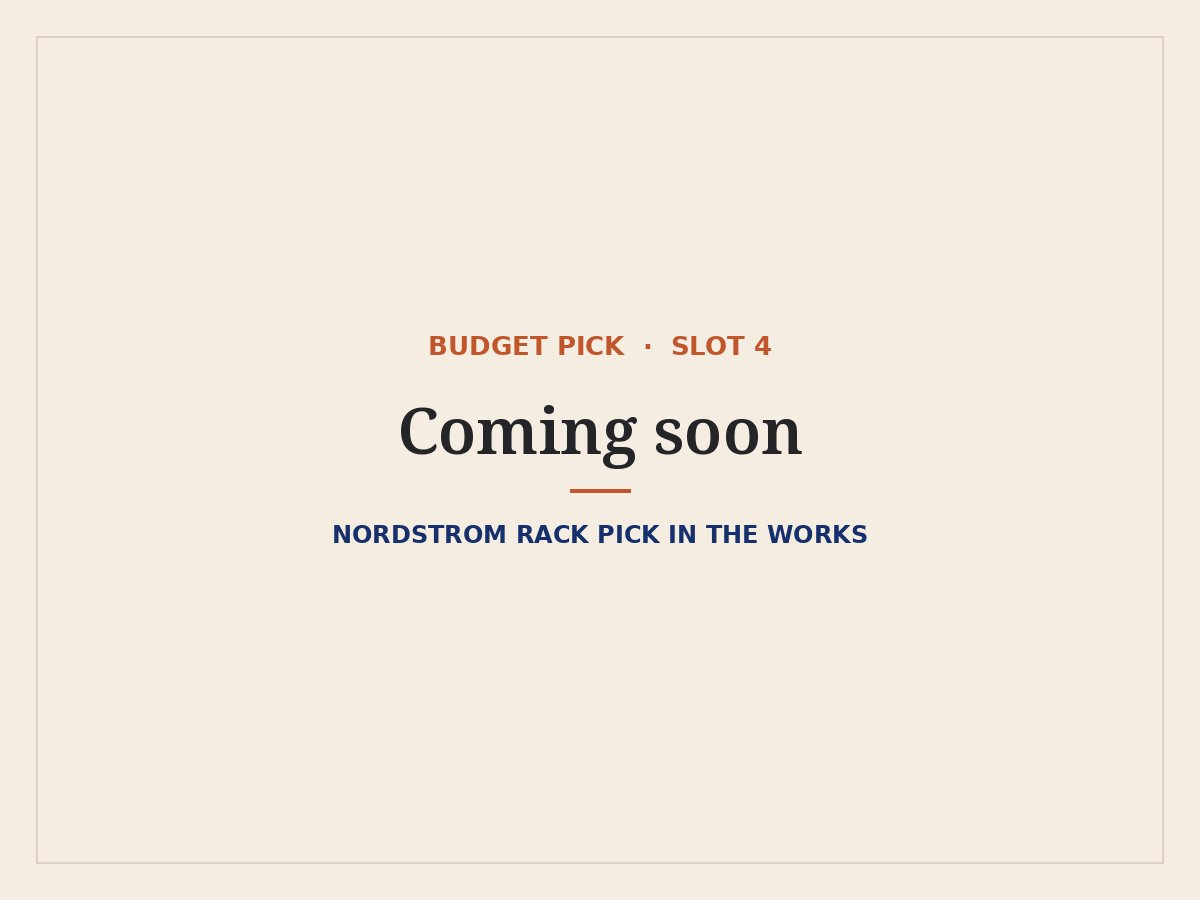
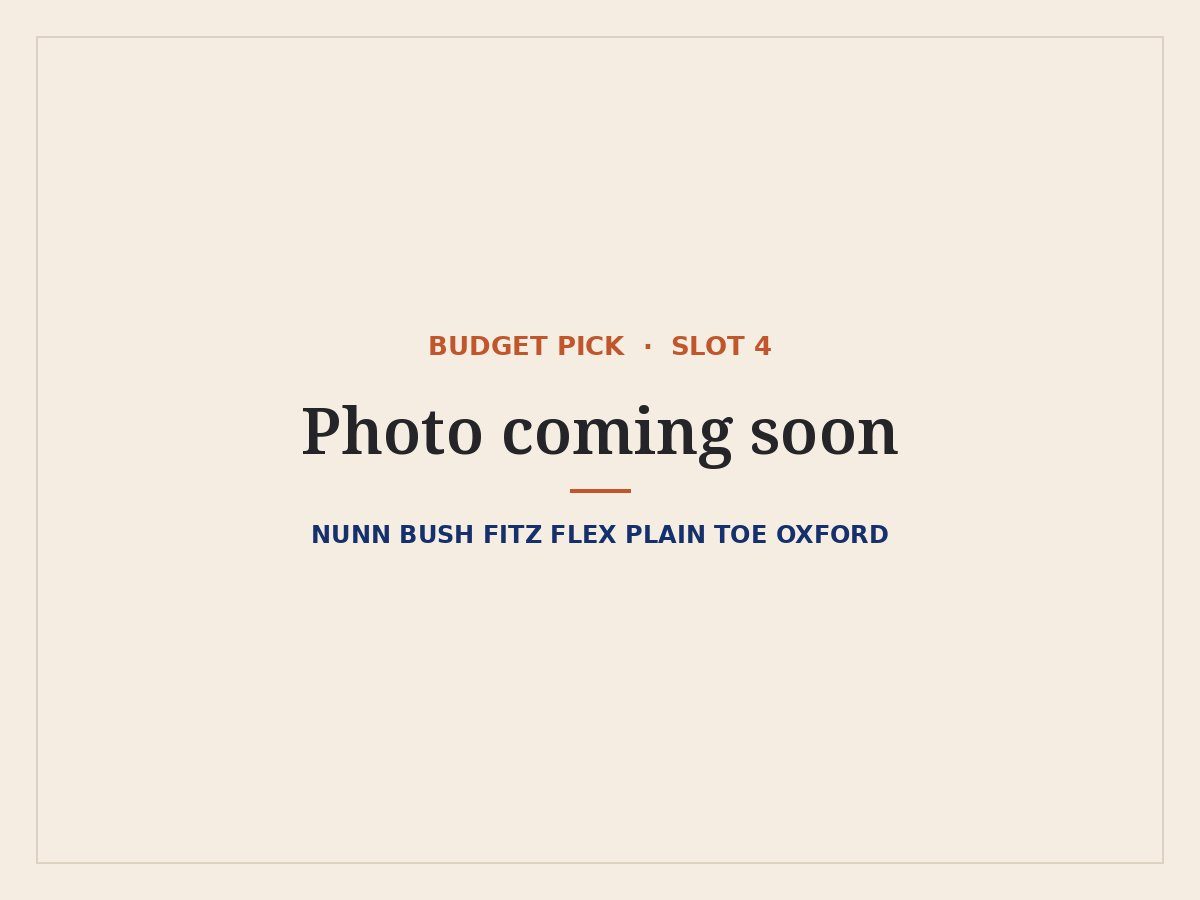
Budget Rotation: fill Nordstrom Rack picks for slots 2-6, add slot 1 outlet photo

Changed region(s): [[0.2467, 0.4356, 0.7708, 0.5289], [0.2467, 0.56, 0.74, 0.6222]]

diff --git a/budget.html b/budget.html
@@ -42,68 +42,76 @@
       <p>Tap a slot for its rules and my main pick.</p>
     </div>
     <div class="grid">
-      <a class="tile" href="slots/everyday-dad-shoe.html">
-        <div class="tile-img"><img src="assets/budget/budget-1.jpg" alt="Nike Air Monarch IV, photo coming soon" width="1200" height="900" loading="lazy"></div>
+      <article class="tile budget-tile" id="slot-1">
+        <a class="tile-img" href="slots/everyday-dad-shoe.html" tabindex="-1" aria-hidden="true"><img src="assets/budget/budget-1.jpg" alt="Nike Air Monarch IV on a Nike outlet shelf with its price tag" width="1200" height="900" loading="lazy"></a>
         <div class="tile-body">
           <span class="tile-num">Slot 1</span>
-          <h3 class="tile-name">The Everyday Dad Shoe</h3>
-          <p class="tile-pick">Current budget pick<strong>Nike Air Monarch IV</strong></p>
-          <p class="budget-price">About $75 at the Nike outlet</p>
-          <span class="tile-more">See the slot <span>&rarr;</span></span>
+          <h3 class="tile-name"><a href="slots/everyday-dad-shoe.html">The Everyday Dad Shoe</a></h3>
+          <p class="tile-pick">Budget pick<strong>Nike Air Monarch IV</strong></p>
+          <p class="budget-color">White / Navy</p>
+          <p class="budget-price">$74.99 at the Nike outlet (retail $85)</p>
+          <p class="img-credit">Photo: Dad Shoe Matt</p>
+          <div class="budget-links"><a class="budget-slot" href="slots/everyday-dad-shoe.html">See the slot &rarr;</a></div>
         </div>
-      </a>
-      <a class="tile" href="slots/workout-shoe.html">
-        <div class="tile-img"><img src="assets/budget/budget-2.jpg" alt="Budget pick for The Workout Shoe, coming soon" width="1200" height="900" loading="lazy"></div>
+      </article>
+      <article class="tile budget-tile" id="slot-2">
+        <a class="tile-img" href="slots/workout-shoe.html" tabindex="-1" aria-hidden="true"><img src="assets/budget/budget-2.jpg" alt="New Balance 608 v5 Training Sneaker, photo coming soon" width="1200" height="900" loading="lazy"></a>
         <div class="tile-body">
           <span class="tile-num">Slot 2</span>
-          <h3 class="tile-name">The Workout Shoe</h3>
-          <p class="tile-pick">Budget pick<strong>Coming soon</strong></p>
-          <p class="budget-price">Nordstrom Rack pick in the works</p>
-          <span class="tile-more">See the slot <span>&rarr;</span></span>
+          <h3 class="tile-name"><a href="slots/workout-shoe.html">The Workout Shoe</a></h3>
+          <p class="tile-pick">Budget pick<strong>New Balance 608 v5 Training Sneaker</strong></p>
+          <p class="budget-color">White / Navy</p>
+          <p class="budget-price">$54.97 (was $69.99)<span class="asof">Price as of Oct 18, 2026</span></p>
+          <div class="budget-links"><a class="btn btn-shop btn-sm" href="https://www.nordstromrack.com/s/new-balance-608-v5-training-sneaker-men/6042707" target="_blank" rel="noopener">Shop at Nordstrom Rack &rarr;</a><a class="budget-slot" href="slots/workout-shoe.html">See the slot &rarr;</a></div>
         </div>
-      </a>
-      <a class="tile" href="slots/clean-white-sneaker.html">
-        <div class="tile-img"><img src="assets/budget/budget-3.jpg" alt="Budget pick for The Clean White Sneaker, coming soon" width="1200" height="900" loading="lazy"></div>
+      </article>
+      <article class="tile budget-tile" id="slot-3">
+        <a class="tile-img" href="slots/clean-white-sneaker.html" tabindex="-1" aria-hidden="true"><img src="assets/budget/budget-3.jpg" alt="Vince Camuto Hallman Leather Sneaker, photo coming soon" width="1200" height="900" loading="lazy"></a>
         <div class="tile-body">
           <span class="tile-num">Slot 3</span>
-          <h3 class="tile-name">The Clean White Sneaker</h3>
-          <p class="tile-pick">Budget pick<strong>Coming soon</strong></p>
-          <p class="budget-price">Nordstrom Rack pick in the works</p>
-          <span class="tile-more">See the slot <span>&rarr;</span></span>
+          <h3 class="tile-name"><a href="slots/clean-white-sneaker.html">The Clean White Sneaker</a></h3>
+          <p class="tile-pick">Budget pick<strong>Vince Camuto Hallman Leather Sneaker</strong></p>
+          <p class="budget-color">White</p>
+          <p class="budget-price">$49.97 (was $119.00)<span class="asof">Price as of Oct 18, 2026</span></p>
+          <div class="budget-links"><a class="btn btn-shop btn-sm" href="https://www.nordstromrack.com/s/vince-camuto-hallman-leather-sneaker-men/5791381" target="_blank" rel="noopener">Shop at Nordstrom Rack &rarr;</a><a class="budget-slot" href="slots/clean-white-sneaker.html">See the slot &rarr;</a></div>
         </div>
-      </a>
-      <a class="tile" href="slots/work-dress-shoe.html">
-        <div class="tile-img"><img src="assets/budget/budget-4.jpg" alt="Budget pick for The Work Dress Shoe, coming soon" width="1200" height="900" loading="lazy"></div>
+      </article>
+      <article class="tile budget-tile" id="slot-4">
+        <a class="tile-img" href="slots/work-dress-shoe.html" tabindex="-1" aria-hidden="true"><img src="assets/budget/budget-4.jpg" alt="Nunn Bush Fitz Flex Leather Plain Toe Oxford, photo coming soon" width="1200" height="900" loading="lazy"></a>
         <div class="tile-body">
           <span class="tile-num">Slot 4</span>
-          <h3 class="tile-name">The Work Dress Shoe</h3>
-          <p class="tile-pick">Budget pick<strong>Coming soon</strong></p>
-          <p class="budget-price">Nordstrom Rack pick in the works</p>
-          <span class="tile-more">See the slot <span>&rarr;</span></span>
+          <h3 class="tile-name"><a href="slots/work-dress-shoe.html">The Work Dress Shoe</a></h3>
+          <p class="tile-pick">Budget pick<strong>Nunn Bush Fitz Flex Leather Plain Toe Oxford</strong></p>
+          <p class="budget-color">Brown (dark brown, dark sole)</p>
+          <p class="budget-price">$89.97 (was $110.00)<span class="asof">Price as of Oct 18, 2026</span></p>
+          <div class="budget-links"><a class="btn btn-shop btn-sm" href="https://www.nordstromrack.com/s/fitz-flex-leather-plain-toe-oxford/9205222" target="_blank" rel="noopener">Shop at Nordstrom Rack &rarr;</a><a class="budget-slot" href="slots/work-dress-shoe.html">See the slot &rarr;</a></div>
         </div>
-      </a>
-      <a class="tile" href="slots/boot.html">
-        <div class="tile-img"><img src="assets/budget/budget-5.jpg" alt="Budget pick for The Boot, coming soon" width="1200" height="900" loading="lazy"></div>
+      </article>
+      <article class="tile budget-tile" id="slot-5">
+        <a class="tile-img" href="slots/boot.html" tabindex="-1" aria-hidden="true"><img src="assets/budget/budget-5.jpg" alt="Clarks Wallaston Chukka Boot, photo coming soon" width="1200" height="900" loading="lazy"></a>
         <div class="tile-body">
           <span class="tile-num">Slot 5 &middot; Optional</span>
-          <h3 class="tile-name">The Boot</h3>
-          <p class="tile-pick">Budget pick<strong>Coming soon</strong></p>
-          <p class="budget-price">Nordstrom Rack pick in the works</p>
-          <span class="tile-more">See the slot <span>&rarr;</span></span>
+          <h3 class="tile-name"><a href="slots/boot.html">The Boot</a></h3>
+          <p class="tile-pick">Budget pick<strong>Clarks Wallaston Chukka Boot</strong></p>
+          <p class="budget-color">Black Suede, Black Leather, Dark Sand Suede, or Beeswax Leather</p>
+          <p class="budget-price">$89.97 (was $120.00)<span class="asof">Price as of Oct 18, 2026</span></p>
+          <div class="budget-links"><a class="btn btn-shop btn-sm" href="https://www.nordstromrack.com/s/clarks-wallaston-chukka-boot-men/8598832" target="_blank" rel="noopener">Shop at Nordstrom Rack &rarr;</a><a class="budget-slot" href="slots/boot.html">See the slot &rarr;</a></div>
         </div>
-      </a>
-      <a class="tile" href="slots/wildcard.html">
-        <div class="tile-img"><img src="assets/budget/budget-6.jpg" alt="Budget pick for The Wildcard, coming soon" width="1200" height="900" loading="lazy"></div>
+      </article>
+      <article class="tile budget-tile" id="slot-6">
+        <a class="tile-img" href="slots/wildcard.html" tabindex="-1" aria-hidden="true"><img src="assets/budget/budget-6.jpg" alt="Saucony Grid Jazz 9, photo coming soon" width="1200" height="900" loading="lazy"></a>
         <div class="tile-body">
           <span class="tile-num">Slot 6</span>
-          <h3 class="tile-name">The Wildcard</h3>
-          <p class="tile-pick">Budget pick<strong>Coming soon</strong></p>
-          <p class="budget-price">Nordstrom Rack pick in the works</p>
-          <span class="tile-more">See the slot <span>&rarr;</span></span>
+          <h3 class="tile-name"><a href="slots/wildcard.html">The Wildcard</a></h3>
+          <p class="tile-pick">Budget pick<strong>Saucony Grid Jazz 9</strong></p>
+          <p class="budget-color">Cinder Black · unisex sizing</p>
+          <p class="budget-price">$74.97 (was $125.00)<span class="asof">Price as of Oct 18, 2026</span></p>
+          <div class="budget-links"><a class="btn btn-shop btn-sm" href="https://www.nordstromrack.com/s/saucony-grid-jazz-9-sneaker-men/8458565" target="_blank" rel="noopener">Shop at Nordstrom Rack &rarr;</a><a class="budget-slot" href="slots/wildcard.html">See the slot &rarr;</a></div>
         </div>
-      </a>
+      </article>
     </div>
-    <p class="budget-note">Budget picks for slots 2 through 6 are coming from Nordstrom Rack. Rack listings sell out fast, so if a link stops working, check back. I&rsquo;ll keep this page updated.</p>
+    <p class="budget-note">Slots 2 through 6 come from Nordstrom Rack. Rack listings sell out fast, and sizes and colors come and go, so if a link stops working, check back. I&rsquo;ll keep this page updated. Prices as of Oct 18, 2026.</p>
+    <p class="fine-credit">Slot 1 photo: Dad Shoe Matt.</p>
   </div>
 </section>
 </main>

diff --git a/assets/css/style.css b/assets/css/style.css
@@ -187,3 +187,16 @@ p{margin:0 0 1.1em}
 .budget-callout .eyebrow{margin-bottom:6px}
 .budget-callout p:not(.eyebrow){margin:0;font-size:15px}
 @media (max-width:640px){.teaser-card{flex-direction:column;align-items:flex-start;padding:22px 20px}}
+/* v5: budget tiles with shop links */
+.budget-tile:hover{transform:none}
+.budget-tile .tile-name a{color:inherit;text-decoration:none}
+.budget-tile .tile-name a:hover{color:var(--orange)}
+.budget-color{margin:2px 0 0;font-size:14px;color:var(--ink-soft)}
+.asof{display:block;font-weight:400;font-size:12px;color:var(--ink-soft);margin-top:2px}
+.budget-tile .img-credit{margin:4px 0 0}
+.budget-links{margin-top:auto;padding-top:14px;display:flex;flex-wrap:wrap;align-items:center;gap:10px 16px}
+.budget-slot{font:600 12px/1 var(--sans);letter-spacing:.14em;text-transform:uppercase;color:var(--charcoal);text-decoration:none}
+.budget-slot:hover{color:var(--orange)}
+.fine-credit{margin:6px 0 0;font-size:12px;color:var(--ink-soft)}
+.budget-callout a{white-space:nowrap}
+@media (max-width:640px){.budget-links .btn{width:100%;text-align:center}}

diff --git a/slots/boot.html b/slots/boot.html
@@ -47,7 +47,7 @@
       </div>
       <div class="budget-callout">
         <p class="eyebrow">Budget pick</p>
-        <p>A Nordstrom Rack pick for this slot is coming soon. <a href="../budget.html">See the Budget Rotation &rarr;</a></p>
+        <p><strong>Clarks Wallaston Chukka Boot</strong> (Black Suede, Black Leather, Dark Sand Suede, or Beeswax Leather), $89.97 (was $120.00) at Nordstrom Rack, price as of Oct 18, 2026. Rack listings sell out fast. <a href="https://www.nordstromrack.com/s/clarks-wallaston-chukka-boot-men/8598832" target="_blank" rel="noopener">Shop at Nordstrom Rack &rarr;</a> <a href="../budget.html#slot-5">See the Budget Rotation &rarr;</a></p>
       </div>
     </div>
   </section>

diff --git a/slots/work-dress-shoe.html b/slots/work-dress-shoe.html
@@ -45,7 +45,7 @@
       </div>
       <div class="budget-callout">
         <p class="eyebrow">Budget pick</p>
-        <p>A Nordstrom Rack pick for this slot is coming soon. <a href="../budget.html">See the Budget Rotation &rarr;</a></p>
+        <p><strong>Nunn Bush Fitz Flex Leather Plain Toe Oxford</strong> (Brown (dark brown, dark sole)), $89.97 (was $110.00) at Nordstrom Rack, price as of Oct 18, 2026. Rack listings sell out fast. <a href="https://www.nordstromrack.com/s/fitz-flex-leather-plain-toe-oxford/9205222" target="_blank" rel="noopener">Shop at Nordstrom Rack &rarr;</a> <a href="../budget.html#slot-4">See the Budget Rotation &rarr;</a></p>
       </div>
     </div>
   </section>

diff --git a/slots/workout-shoe.html b/slots/workout-shoe.html
@@ -45,7 +45,7 @@
       </div>
       <div class="budget-callout">
         <p class="eyebrow">Budget pick</p>
-        <p>A Nordstrom Rack pick for this slot is coming soon. <a href="../budget.html">See the Budget Rotation &rarr;</a></p>
+        <p><strong>New Balance 608 v5 Training Sneaker</strong> (White / Navy), $54.97 (was $69.99) at Nordstrom Rack, price as of Oct 18, 2026. Rack listings sell out fast. <a href="https://www.nordstromrack.com/s/new-balance-608-v5-training-sneaker-men/6042707" target="_blank" rel="noopener">Shop at Nordstrom Rack &rarr;</a> <a href="../budget.html#slot-2">See the Budget Rotation &rarr;</a></p>
       </div>
     </div>
   </section>

diff --git a/slots/clean-white-sneaker.html b/slots/clean-white-sneaker.html
@@ -44,7 +44,7 @@
       </div>
       <div class="budget-callout">
         <p class="eyebrow">Budget pick</p>
-        <p>A Nordstrom Rack pick for this slot is coming soon. <a href="../budget.html">See the Budget Rotation &rarr;</a></p>
+        <p><strong>Vince Camuto Hallman Leather Sneaker</strong> (White), $49.97 (was $119.00) at Nordstrom Rack, price as of Oct 18, 2026. Rack listings sell out fast. <a href="https://www.nordstromrack.com/s/vince-camuto-hallman-leather-sneaker-men/5791381" target="_blank" rel="noopener">Shop at Nordstrom Rack &rarr;</a> <a href="../budget.html#slot-3">See the Budget Rotation &rarr;</a></p>
       </div>
     </div>
   </section>

diff --git a/slots/wildcard.html b/slots/wildcard.html
@@ -45,7 +45,7 @@
       </div>
       <div class="budget-callout">
         <p class="eyebrow">Budget pick</p>
-        <p>A Nordstrom Rack pick for this slot is coming soon. <a href="../budget.html">See the Budget Rotation &rarr;</a></p>
+        <p><strong>Saucony Grid Jazz 9</strong> (Cinder Black; unisex sizing), $74.97 (was $125.00) at Nordstrom Rack, price as of Oct 18, 2026. Rack listings sell out fast. <a href="https://www.nordstromrack.com/s/saucony-grid-jazz-9-sneaker-men/8458565" target="_blank" rel="noopener">Shop at Nordstrom Rack &rarr;</a> <a href="../budget.html#slot-6">See the Budget Rotation &rarr;</a></p>
       </div>
     </div>
   </section>

diff --git a/index.html b/index.html
@@ -109,7 +109,7 @@
       <div>
         <p class="eyebrow">New: The Budget Rotation</p>
         <h2 id="budget-teaser-title">Same six slots, smaller spend</h2>
-        <p>The most economical pick I&rsquo;d suggest for each slot, starting with the classic Nike Air Monarch IV for about $75 at the Nike outlet.</p>
+        <p>The most economical pick I&rsquo;d suggest for each slot, starting with the classic Nike Air Monarch IV for $74.99 at the Nike outlet.</p>
       </div>
       <p class="hero-cta"><a class="btn btn-solid" href="budget.html">See the budget picks &rarr;</a></p>
     </div>

diff --git a/slots/everyday-dad-shoe.html b/slots/everyday-dad-shoe.html
@@ -44,7 +44,7 @@
       </div>
       <div class="budget-callout">
         <p class="eyebrow">Budget pick</p>
-        <p><strong>Nike Air Monarch IV</strong>, about $75 at the Nike outlet. <a href="../budget.html">See the Budget Rotation &rarr;</a></p>
+        <p><strong>Nike Air Monarch IV</strong>, $74.99 at the Nike outlet (retail $85). <a href="../budget.html#slot-1">See the Budget Rotation &rarr;</a></p>
       </div>
     </div>
   </section>

diff --git a/README.md b/README.md
@@ -64,4 +64,4 @@ Open the slot page (for example `slots/wildcard.html`). Edit the text inside `<d
 
 ## Budget Rotation
 
-`budget.html` lists the most economical pick for each slot. Each tile uses one image, `assets/budget/budget-1.jpg` through `budget-6.jpg`. Slot 1's file is a "Photo coming soon" placeholder. Replace it with your Air Monarch IV photo, keeping the same name (1200 x 900 JPG, white background works best). Slots 2–6 are "Coming soon" placeholders until Nordstrom Rack picks are added. To add one, swap in the image, then edit that tile's text and add a "Shop at Nordstrom Rack" link in `budget.html`. Also update the "Budget pick" box on the matching slot page.
+`budget.html` lists the most economical pick for each slot. Each tile uses one image, `assets/budget/budget-1.jpg` through `budget-6.jpg`. Slot 1 is Dad Shoe Matt's own outlet photo, with metadata stripped. Slots 2–6 are Nordstrom Rack picks. Their images are "Photo coming soon" placeholders for now. To replace one, drop in a 1200 x 900 JPG with the same name. Rack listings sell out fast. When one goes away, update the tile in `budget.html` and the "Budget pick" box on the matching slot page.
